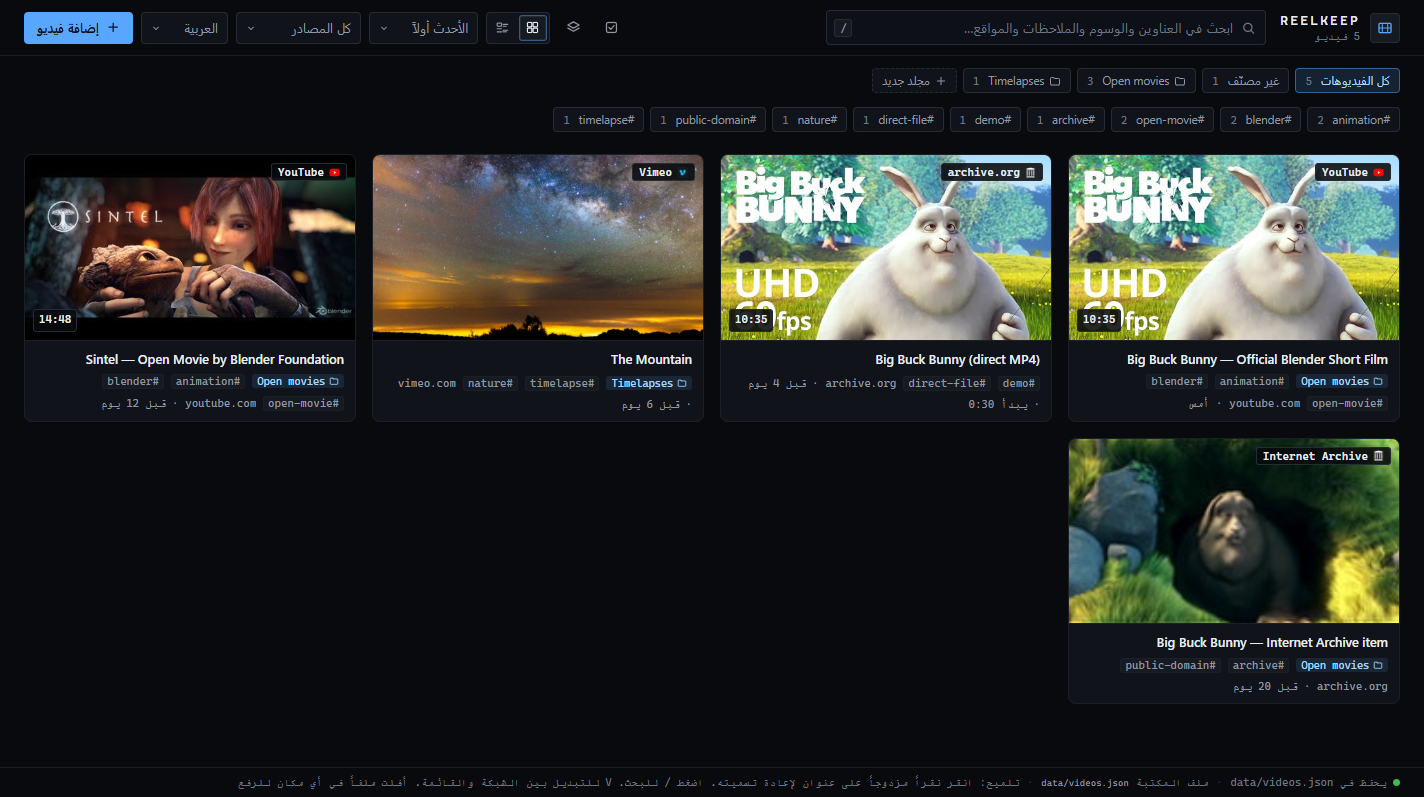
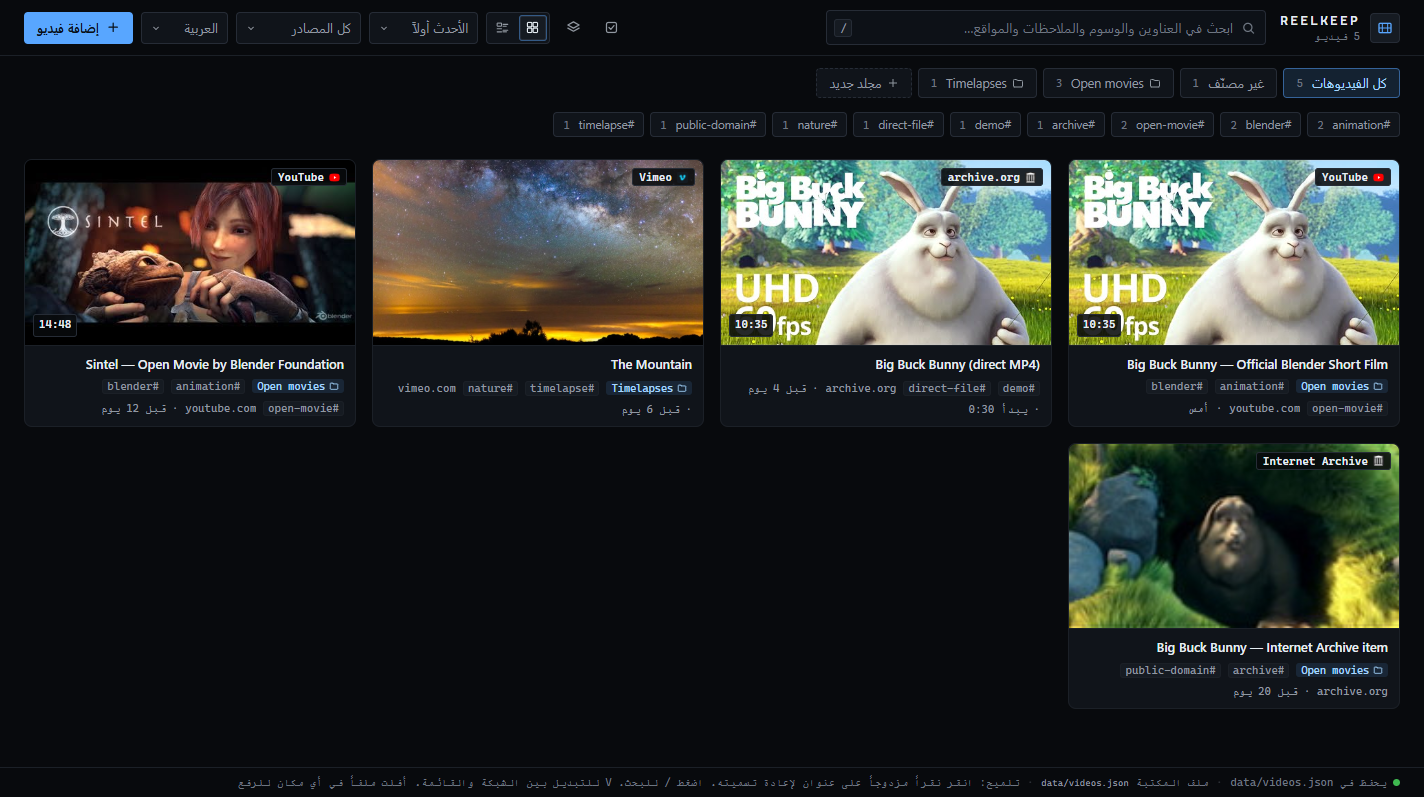
fix: drag ergonomics - bottom drop-dock, compact ghost above pointer, solid hot target
Folder bar becomes a fixed bottom dock of 46px targets while dragging (reachable at any scroll); drag image is a compact mono ghost placed above the cursor so the target stays visible; hot chip is solid accent; gallery dims and footer hides during drag; larger folder chips at rest. Also fix stuck dock: render() detaches the dragged card so native dragend never reached the delegated listener - drop path now calls endDrag() explicitly.

Changed region(s): [[0.0, 0.0903, 0.9888, 0.8733], [0.8652, 0.3614, 0.8961, 0.3915], [0.618, 0.3614, 0.6489, 0.3915]]

diff --git a/styles.css b/styles.css
@@ -155,13 +155,39 @@ select:hover { color: var(--text); border-color: #333a45; }
 .chip.on { background: rgba(88, 166, 255, 0.15); border-color: rgba(88, 166, 255, 0.5); color: var(--accent-soft); }
 .chip small { color: var(--dim); margin-inline-start: 4px; font: 10.5px var(--mono); font-variant-numeric: tabular-nums; }
 .chip .fi { width: 12px; height: 12px; }
-.chip.hot { border-color: var(--accent); border-style: solid; background: rgba(88, 166, 255, 0.25); color: var(--text); }
-.chip.hot small { color: inherit; }
+.chip.hot { border-color: var(--accent); border-style: solid; background: var(--accent); color: #081018; }
+.chip.hot small, .chip.hot .fi { color: #081018; }
 .chip.newfolder { border-style: dashed; }
-/* while cards are being dragged, every folder chip advertises itself as a target */
-body.drag-ids .folderbar .chip[data-folder]:not([data-folder="all"]) {
+/* folder chips are drop targets: comfortable at rest, dock-sized while dragging */
+.folderbar .chip { padding: 6px 12px; font-size: 12.5px; }
+/* while cards are being dragged the folder bar becomes a fixed bottom dock of large
+   targets, reachable at any scroll position; the gallery dims to focus attention */
+body.drag-ids .folderbar {
+  position: fixed; bottom: 0; inset-inline: 0; z-index: 60;
+  display: flex; flex-wrap: wrap; gap: 10px;
+  padding: 12px clamp(14px, 2.4vw, 24px);
+  background: var(--bg-2); border-top: 1px solid var(--line); box-shadow: var(--shadow);
+}
+body.drag-ids .folderbar .chip[data-folder] {
+  padding: 12px 18px; font-size: 13.5px; min-height: 46px;
   border-style: dashed; border-color: rgba(88, 166, 255, 0.55);
 }
+body.drag-ids .folderbar .chip[data-folder="all"],
+body.drag-ids .folderbar .chip.newfolder { display: none; }
+body.drag-ids .folderbar .chip.hot { border-style: solid; }
+body.drag-ids .grid, body.drag-ids .tagbar { opacity: 0.55; }
+body.drag-ids .libfoot { visibility: hidden; }
+.grid, .tagbar { transition: opacity var(--speed); }
+/* compact drag image, parked offscreen; setDragImage places it above the pointer */
+.drag-ghost {
+  position: fixed; top: 0; left: -10000px;
+  display: flex; align-items: center; gap: 6px; max-width: 280px;
+  padding: 6px 10px; border-radius: var(--radius-s);
+  background: var(--panel-2); border: 1px solid var(--accent);
+  font: 600 11px var(--mono); color: var(--text); pointer-events: none;
+}
+.drag-ghost svg { width: 12px; height: 12px; color: var(--accent); }
+.drag-ghost span { overflow: hidden; text-overflow: ellipsis; white-space: nowrap; }
 .fa-icon { width: 14px; height: 14px; color: var(--accent); }
 .fa-count { color: var(--dim); font: 11px var(--mono); font-variant-numeric: tabular-nums; }
 

diff --git a/app.js b/app.js
@@ -1455,14 +1455,21 @@ $('#grid').addEventListener('dragstart', (e) => {
   const ids = state.selecting && state.selected.has(id) ? [...state.selected] : [id];
   e.dataTransfer.setData(DRAG_MIME, JSON.stringify(ids));
   e.dataTransfer.effectAllowed = 'move';
+  // compact ghost parked ABOVE the pointer: the drop target under the cursor stays visible
+  const ghost = $('#dragGhost');
+  const label = ids.length > 1 ? t('count.other', { n: ids.length }) : byId(id)?.title || t('card.untitled');
+  ghost.innerHTML = `<svg><use href="#i-folder" /></svg><span>${esc(label)}</span>`;
+  e.dataTransfer.setDragImage(ghost, Math.round(ghost.offsetWidth / 2), ghost.offsetHeight + 14);
   document.body.classList.add('drag-ids');
   requestAnimationFrame(() => card.classList.add('dragging'));
 });
-$('#grid').addEventListener('dragend', () => {
+function endDrag() {
   document.body.classList.remove('drag-ids');
+  $('#dragGhost').innerHTML = '';
   $$('.card.dragging').forEach((c) => c.classList.remove('dragging'));
   $$('.chip.hot').forEach((c) => c.classList.remove('hot'));
-});
+}
+$('#grid').addEventListener('dragend', endDrag);
 
 async function moveIds(ids, folderId) {
   try {
@@ -1472,6 +1479,8 @@ async function moveIds(ids, folderId) {
     });
     ids.forEach((id) => state.selected.delete(id));
     render();
+    // render() detaches the dragged card, so native dragend may never reach #grid
+    endDrag();
     const name = state.folders.find((f) => f.id === folderId)?.name || t('folder.unfiled');
     toast(t('move.moved', { n: t(n === 1 ? 'count.one' : 'count.other', { n }), name }), 'ok', 2200);
   } catch (err) {

diff --git a/index.html b/index.html
@@ -322,6 +322,8 @@
       </div>
     </dialog>
 
+    <div id="dragGhost" class="drag-ghost" aria-hidden="true"></div>
+
     <div id="toasts" class="toasts"></div>
 
     <footer class="libfoot">

diff --git a/docs/ui-brief.md b/docs/ui-brief.md
@@ -144,8 +144,13 @@ Type scale: body 13, card title 13 (list 15), dialog h2 15, micro 10–11 mono, 
   grid/list segmented (`#viewGrid`/`#viewList`), sort/source/language custom-chevron
   `<select>`s (`#sortSel`, `#providerSel`, `#langSel`), primary **Add video** (`#addBtn`).
 - **Folder bar** (`#folderbar`): squared chips *All videos*, *Unfiled*, folders (icon +
-  name + mono count), dashed *New folder*. **Drop targets**: while dragging, all folder
-  chips outline dashed (`body.drag-ids`); hovered chip = `.hot` solid accent.
+  name + mono count), dashed *New folder*; folder chips are comfortable at rest
+  (6px/12px padding, 12.5px). **Drop targets**: while dragging (`body.drag-ids`) the bar
+  becomes a **fixed bottom dock** of large targets (46px min-height, 13.5px type, dashed
+  accent outlines; *All videos* and *New folder* hidden), reachable at any scroll
+  position; the gallery and tag bar dim to 0.55. Hovered chip = `.hot` **solid accent
+  fill with dark text**. The drag image is a compact mono ghost (`#dragGhost`,
+  `setDragImage` offset above the pointer) so the target under the cursor stays visible.
   Double-click renames.
 - **Folder action bar** (`#folderActions`, folder open): icon, name, mono count, spacer,
   **Empty folder** / **Rename** / **Delete folder** (danger).
@@ -207,7 +212,7 @@ Keep austere.
   tpVideo, tpCanvas, tpTime, tpRange, tpOut, tpAlsoStart, tpStepB, tpStepF, tpGrab,
   tpProvider, tpFrames, tpBlocked, tpUpload, tpUrl, tpUseUrl, tpReset, moveDialog,
   moveForm, mvList, mvNew, mvCreate, confirmDialog, cfTitle, cfText, cfOk, toasts,
-  backend, tip`.
+  backend, tip, dragGhost`.
 - Data attributes: `data-act` (edit/del/rename/select), `data-lb`
   (close/fit/full/thumb/edit/open/prev/next), `data-tab`/`data-panel` (link/embed/upload),
   `data-folder`, `data-newfolder`, `data-mv`, `data-mv-edit`, `data-mv-del`, `data-close`,
@@ -265,6 +270,7 @@ Regenerate with `npm run screenshot` (server running; Node 22+; Chrome/Edge;
 | `docs/screenshot-frames.png` | frame-accurate thumbnail picker |
 | `docs/screenshot-groups.png` | group-by-source slates |
 | `docs/screenshot-move.png` | selection mode + move dialog |
+| `docs/screenshot-drag.png` | mid-drag bottom drop-dock with hot target |
 | `docs/screenshot-rtl.png` | full Arabic RTL gallery |
 
 ---

diff --git a/CHANGELOG.md b/CHANGELOG.md
@@ -23,6 +23,11 @@ All notable changes to this project are documented here. The format follows
 
 ### Added
 - `docs/screenshot-list.png` and a list-view capture step in `scripts/screenshot.mjs`.
+- Drag ergonomics: while dragging, the folder bar becomes a fixed bottom dock of large
+  (46px) drop targets reachable at any scroll position; the drag image is a compact
+  mono ghost placed above the pointer so the target under the cursor stays visible;
+  hot target is a solid accent fill; gallery dims during drag; folder chips larger at
+  rest. `docs/screenshot-drag.png` documents the mid-drag state.
 
 ## [1.3.0] - 2026-11-21
 
